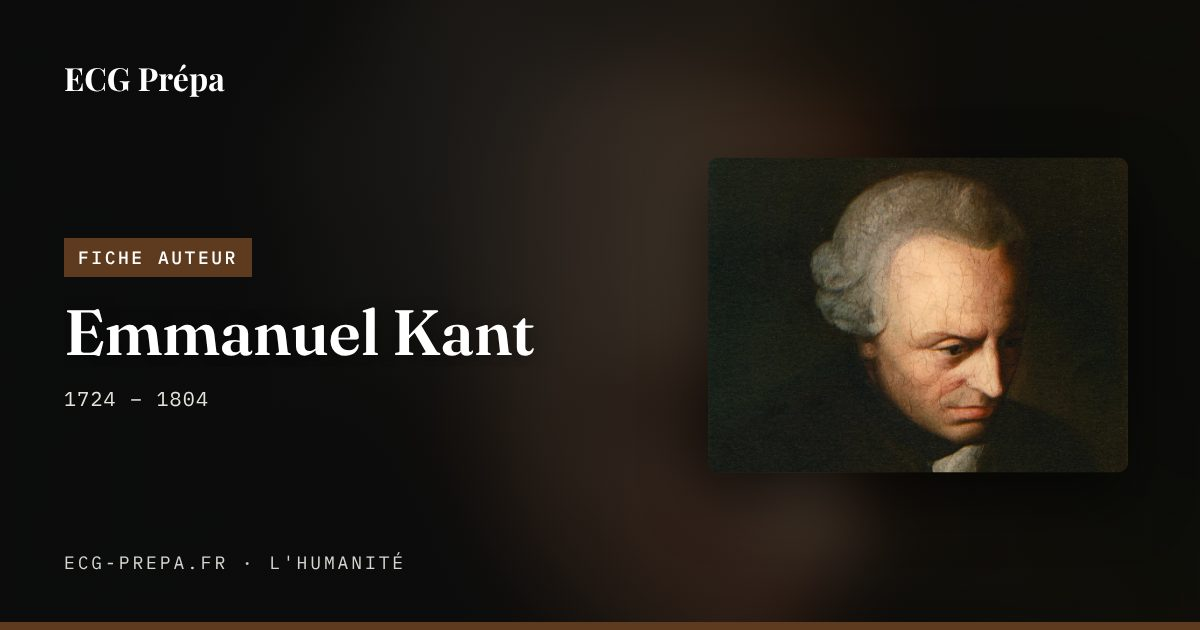
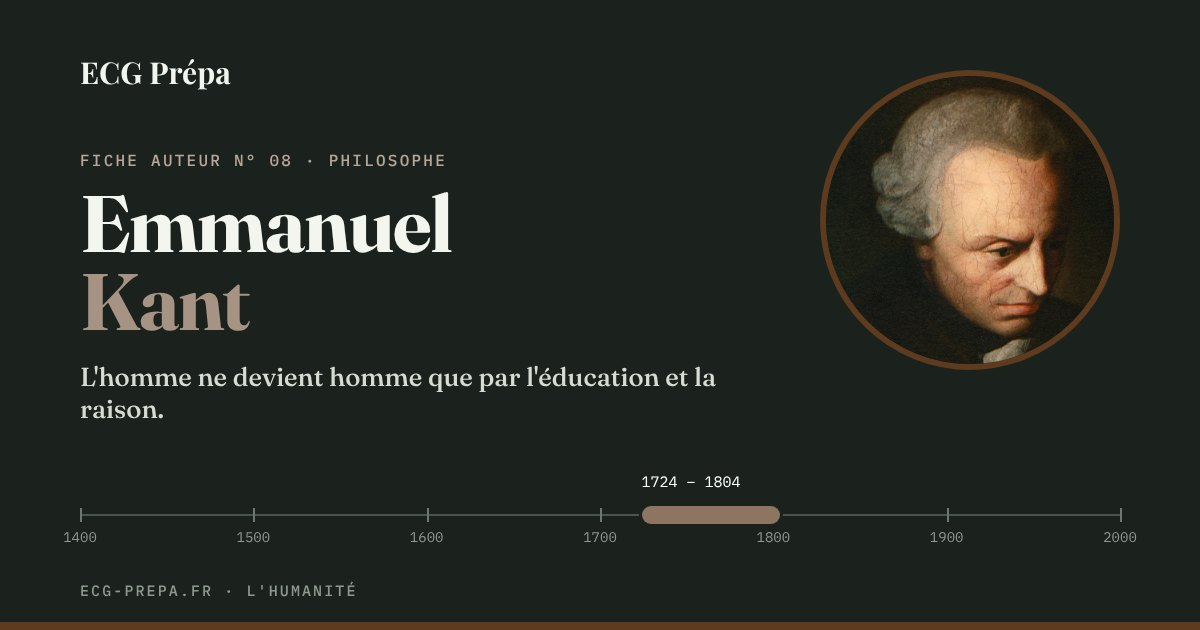
Images de partage des fiches auteurs : maquette « Frise des siècles »
Nouveau modèle GABARIT_FRISE dans outils/images-partage.py (portrait rond,
nom, début de la thèse, vie de l'auteur sur une frise 1400-2000), choisi par
le propriétaire sur maquette. Les 8 fiches refaites avec --refaire.

Claude-Session: https://claude.ai/code/session_01862hVtU2Ugip5E1nS28H1S

diff --git a/humanite/cours-humanite/Fiches auteurs/rousseau.html b/humanite/cours-humanite/Fiches auteurs/rousseau.html
@@ -10,12 +10,12 @@
 <link rel="stylesheet" href="fiche-auteur.css">
 <meta property="og:type" content="article">
 <meta property="og:title" content="Jean-Jacques Rousseau · Fiches auteurs">
-<meta property="og:image" content="https://ecg-prepa.fr/partage/humanite/humanite-cours-humanite-Fiches auteurs-rousseau.jpg?v=202610202043">
+<meta property="og:image" content="https://ecg-prepa.fr/partage/humanite/humanite-cours-humanite-Fiches auteurs-rousseau.jpg?v=202611101411">
 <meta property="og:image:width" content="1200">
 <meta property="og:image:height" content="630">
 <meta property="og:image:alt" content="Jean-Jacques Rousseau · Fiches auteurs">
 <meta name="twitter:card" content="summary_large_image">
-<meta name="twitter:image" content="https://ecg-prepa.fr/partage/humanite/humanite-cours-humanite-Fiches auteurs-rousseau.jpg?v=202610202043">
+<meta name="twitter:image" content="https://ecg-prepa.fr/partage/humanite/humanite-cours-humanite-Fiches auteurs-rousseau.jpg?v=202611101411">
 <link rel="canonical" href="https://ecg-prepa.fr/humanite/cours-humanite/Fiches auteurs/rousseau.html">
 <link rel="stylesheet" href="../../../barre-section.css">
 </head>

diff --git a/humanite/cours-humanite/Fiches auteurs/pic-de-la-mirandole.html b/humanite/cours-humanite/Fiches auteurs/pic-de-la-mirandole.html
@@ -10,12 +10,12 @@
 <link rel="stylesheet" href="fiche-auteur.css">
 <meta property="og:type" content="article">
 <meta property="og:title" content="Pic de la Mirandole">
-<meta property="og:image" content="https://ecg-prepa.fr/partage/humanite/humanite-cours-humanite-Fiches auteurs-pic-de-la-mirandole.jpg">
+<meta property="og:image" content="https://ecg-prepa.fr/partage/humanite/humanite-cours-humanite-Fiches auteurs-pic-de-la-mirandole.jpg?v=202611101411">
 <meta property="og:image:width" content="1200">
 <meta property="og:image:height" content="630">
 <meta property="og:image:alt" content="Pic de la Mirandole">
 <meta name="twitter:card" content="summary_large_image">
-<meta name="twitter:image" content="https://ecg-prepa.fr/partage/humanite/humanite-cours-humanite-Fiches auteurs-pic-de-la-mirandole.jpg">
+<meta name="twitter:image" content="https://ecg-prepa.fr/partage/humanite/humanite-cours-humanite-Fiches auteurs-pic-de-la-mirandole.jpg?v=202611101411">
 <link rel="canonical" href="https://ecg-prepa.fr/humanite/cours-humanite/Fiches auteurs/pic-de-la-mirandole.html">
 <link rel="stylesheet" href="../../../barre-section.css">
 </head>

diff --git a/humanite/cours-humanite/Fiches auteurs/hobbes.html b/humanite/cours-humanite/Fiches auteurs/hobbes.html
@@ -10,12 +10,12 @@
 <link rel="stylesheet" href="fiche-auteur.css">
 <meta property="og:type" content="article">
 <meta property="og:title" content="Thomas Hobbes · Fiches auteurs">
-<meta property="og:image" content="https://ecg-prepa.fr/partage/humanite/humanite-cours-humanite-Fiches auteurs-hobbes.jpg?v=202610202043">
+<meta property="og:image" content="https://ecg-prepa.fr/partage/humanite/humanite-cours-humanite-Fiches auteurs-hobbes.jpg?v=202611101411">
 <meta property="og:image:width" content="1200">
 <meta property="og:image:height" content="630">
 <meta property="og:image:alt" content="Thomas Hobbes · Fiches auteurs">
 <meta name="twitter:card" content="summary_large_image">
-<meta name="twitter:image" content="https://ecg-prepa.fr/partage/humanite/humanite-cours-humanite-Fiches auteurs-hobbes.jpg?v=202610202043">
+<meta name="twitter:image" content="https://ecg-prepa.fr/partage/humanite/humanite-cours-humanite-Fiches auteurs-hobbes.jpg?v=202611101411">
 <link rel="canonical" href="https://ecg-prepa.fr/humanite/cours-humanite/Fiches auteurs/hobbes.html">
 <link rel="stylesheet" href="../../../barre-section.css">
 </head>

diff --git a/humanite/cours-humanite/Fiches auteurs/kant.html b/humanite/cours-humanite/Fiches auteurs/kant.html
@@ -11,12 +11,12 @@
 <link rel="stylesheet" href="../../../barre-section.css">
 <meta property="og:type" content="article">
 <meta property="og:title" content="Kant · Fiches auteurs">
-<meta property="og:image" content="https://ecg-prepa.fr/partage/humanite/humanite-cours-humanite-Fiches auteurs-kant.jpg?v=202611101319">
+<meta property="og:image" content="https://ecg-prepa.fr/partage/humanite/humanite-cours-humanite-Fiches auteurs-kant.jpg?v=202611101411">
 <meta property="og:image:width" content="1200">
 <meta property="og:image:height" content="630">
 <meta property="og:image:alt" content="Kant · Fiches auteurs">
 <meta name="twitter:card" content="summary_large_image">
-<meta name="twitter:image" content="https://ecg-prepa.fr/partage/humanite/humanite-cours-humanite-Fiches auteurs-kant.jpg?v=202611101319">
+<meta name="twitter:image" content="https://ecg-prepa.fr/partage/humanite/humanite-cours-humanite-Fiches auteurs-kant.jpg?v=202611101411">
 <link rel="canonical" href="https://ecg-prepa.fr/humanite/cours-humanite/Fiches auteurs/kant.html">
 </head>
 <body data-type="Philosophe" style="--accent:#5e3a1e;--accent2:#b0336b">

diff --git a/humanite/cours-humanite/Fiches auteurs/la-boetie.html b/humanite/cours-humanite/Fiches auteurs/la-boetie.html
@@ -10,12 +10,12 @@
 <link rel="stylesheet" href="fiche-auteur.css">
 <meta property="og:type" content="article">
 <meta property="og:title" content="Étienne de La Boétie">
-<meta property="og:image" content="https://ecg-prepa.fr/partage/humanite/humanite-cours-humanite-Fiches auteurs-la-boetie.jpg?v=202610292108">
+<meta property="og:image" content="https://ecg-prepa.fr/partage/humanite/humanite-cours-humanite-Fiches auteurs-la-boetie.jpg?v=202611101411">
 <meta property="og:image:width" content="1200">
 <meta property="og:image:height" content="630">
 <meta property="og:image:alt" content="Étienne de La Boétie">
 <meta name="twitter:card" content="summary_large_image">
-<meta name="twitter:image" content="https://ecg-prepa.fr/partage/humanite/humanite-cours-humanite-Fiches auteurs-la-boetie.jpg?v=202610292108">
+<meta name="twitter:image" content="https://ecg-prepa.fr/partage/humanite/humanite-cours-humanite-Fiches auteurs-la-boetie.jpg?v=202611101411">
 <link rel="canonical" href="https://ecg-prepa.fr/humanite/cours-humanite/Fiches auteurs/la-boetie.html">
 <link rel="stylesheet" href="../../../barre-section.css">
 </head>

diff --git a/humanite/cours-humanite/Fiches auteurs/sartre.html b/humanite/cours-humanite/Fiches auteurs/sartre.html
@@ -11,12 +11,12 @@
 <link rel="stylesheet" href="../../../barre-section.css">
 <meta property="og:type" content="article">
 <meta property="og:title" content="Jean-Paul Sartre">
-<meta property="og:image" content="https://ecg-prepa.fr/partage/humanite/humanite-cours-humanite-Fiches auteurs-sartre.jpg">
+<meta property="og:image" content="https://ecg-prepa.fr/partage/humanite/humanite-cours-humanite-Fiches auteurs-sartre.jpg?v=202611101411">
 <meta property="og:image:width" content="1200">
 <meta property="og:image:height" content="630">
 <meta property="og:image:alt" content="Jean-Paul Sartre">
 <meta name="twitter:card" content="summary_large_image">
-<meta name="twitter:image" content="https://ecg-prepa.fr/partage/humanite/humanite-cours-humanite-Fiches auteurs-sartre.jpg">
+<meta name="twitter:image" content="https://ecg-prepa.fr/partage/humanite/humanite-cours-humanite-Fiches auteurs-sartre.jpg?v=202611101411">
 <link rel="canonical" href="https://ecg-prepa.fr/humanite/cours-humanite/Fiches auteurs/sartre.html">
 </head>
 <body data-type="Philosophe" style="--accent:#b4471a;--accent2:#363b47">

diff --git a/humanite/cours-humanite/Fiches auteurs/montaigne.html b/humanite/cours-humanite/Fiches auteurs/montaigne.html
@@ -10,12 +10,12 @@
 <link rel="stylesheet" href="fiche-auteur.css">
 <meta property="og:type" content="article">
 <meta property="og:title" content="Michel de Montaigne">
-<meta property="og:image" content="https://ecg-prepa.fr/partage/humanite/humanite-cours-humanite-Fiches auteurs-montaigne.jpg">
+<meta property="og:image" content="https://ecg-prepa.fr/partage/humanite/humanite-cours-humanite-Fiches auteurs-montaigne.jpg?v=202611101411">
 <meta property="og:image:width" content="1200">
 <meta property="og:image:height" content="630">
 <meta property="og:image:alt" content="Michel de Montaigne">
 <meta name="twitter:card" content="summary_large_image">
-<meta name="twitter:image" content="https://ecg-prepa.fr/partage/humanite/humanite-cours-humanite-Fiches auteurs-montaigne.jpg">
+<meta name="twitter:image" content="https://ecg-prepa.fr/partage/humanite/humanite-cours-humanite-Fiches auteurs-montaigne.jpg?v=202611101411">
 <link rel="canonical" href="https://ecg-prepa.fr/humanite/cours-humanite/Fiches auteurs/montaigne.html">
 <link rel="stylesheet" href="../../../barre-section.css">
 </head>

diff --git a/humanite/cours-humanite/Fiches auteurs/arendt.html b/humanite/cours-humanite/Fiches auteurs/arendt.html
@@ -11,12 +11,12 @@
 <link rel="stylesheet" href="../../../barre-section.css">
 <meta property="og:type" content="article">
 <meta property="og:title" content="Hannah Arendt">
-<meta property="og:image" content="https://ecg-prepa.fr/partage/humanite/humanite-cours-humanite-Fiches auteurs-arendt.jpg">
+<meta property="og:image" content="https://ecg-prepa.fr/partage/humanite/humanite-cours-humanite-Fiches auteurs-arendt.jpg?v=202611101411">
 <meta property="og:image:width" content="1200">
 <meta property="og:image:height" content="630">
 <meta property="og:image:alt" content="Hannah Arendt">
 <meta name="twitter:card" content="summary_large_image">
-<meta name="twitter:image" content="https://ecg-prepa.fr/partage/humanite/humanite-cours-humanite-Fiches auteurs-arendt.jpg">
+<meta name="twitter:image" content="https://ecg-prepa.fr/partage/humanite/humanite-cours-humanite-Fiches auteurs-arendt.jpg?v=202611101411">
 <link rel="canonical" href="https://ecg-prepa.fr/humanite/cours-humanite/Fiches auteurs/arendt.html">
 </head>
 <body data-type="Philosophe" style="--accent:#0d5c75;--accent2:#6b5b95">

diff --git a/outils/images-partage.py b/outils/images-partage.py
@@ -15,7 +15,8 @@ Articles d'actualité au gabarit « a-page » (maquette B) : photo de une en ple
 assombrie à gauche, pastille rouge du pays, titre blanc, filet rouge en bas. Fiches d'œuvres et
 fiches auteurs de l'Humanité avec visuel : visuel flou en fond, visuel net à droite, pastille et filet à la couleur
 de la fiche. Chapitres d'HGG : modèle « dossier d'archives » (chemise kraft, photo du héros scotchée, fiche de titre
-à grand numéro, tampon), à la couleur du chapitre. Autres pages : aplat de couleur et titre.
+à grand numéro, tampon), à la couleur du chapitre. Fiches auteurs : modèle « Frise des siècles » (portrait rond, nom, début de la thèse, vie de
+l'auteur sur une frise de 1400 à 2000). Autres pages : aplat de couleur et titre.
 
 Prérequis : playwright (voir newsletter/outils/installer.sh). Le chemin de Chromium
 peut être donné avec la variable CHROMIUM_PATH.
@@ -294,6 +295,57 @@ def auteur_de(rel, contenu):
     return 'Fiche auteur', chemin, (c.group(1) if c else '#a83a2e'), dates
 
 
+# Fiches auteurs de l'Humanité : maquette D « Frise des siècles », choisie par le propriétaire (novembre 2026).
+# Fond vert nuit, logo, « Fiche auteur n° NN · Philosophe », prénom en blanc et nom à la couleur de la fiche
+# (éclaircie), début de la thèse en une phrase, portrait rond cerclé de la couleur, et en bas une frise de
+# 1400 à 2000 où la vie de l'auteur est une barre (comme l'index fiches-auteurs.html). Filet à la couleur.
+GABARIT_FRISE = """<!doctype html><html lang="fr"><head><meta charset="utf-8">
+<link rel="stylesheet" href="file://%(racine)sfonts/fonts.css">
+<style>
+*{margin:0;padding:0;box-sizing:border-box}
+body{width:1200px;height:630px;overflow:hidden;position:relative;background:#1b221d;color:#f3f5ef;-webkit-font-smoothing:antialiased}
+.mono{font-family:'IBM Plex Mono',monospace;font-weight:500;letter-spacing:.14em;text-transform:uppercase}
+#g{position:absolute;left:80px;top:52px;width:700px}
+#logo{font-family:'Playfair Display',serif;font-weight:700;font-size:30px}
+#k{font-size:16px;color:color-mix(in srgb,var(--c) 45%%,#fff);margin-top:58px}
+h1{font-family:'Fraunces',serif;font-weight:700;font-size:80px;line-height:.98;letter-spacing:-.02em;margin-top:14px}
+h1 span{display:block;color:color-mix(in srgb,var(--c) 55%%,#fff)}
+#th{font-family:'Fraunces',serif;font-weight:500;font-size:26px;line-height:1.25;margin-top:20px;color:#d7dcd3}
+#por{position:absolute;right:80px;top:70px;width:300px;height:300px;border-radius:50%%;object-fit:cover;border:6px solid var(--c)}
+#frise{position:absolute;left:0;right:0;bottom:84px;height:60px}
+#frise .axe{position:absolute;left:80px;right:80px;top:28px;height:2px;background:#4a554d}
+#frise i{position:absolute;top:22px;width:2px;height:14px;background:#6d786f}
+#frise em{position:absolute;top:42px;transform:translateX(-50%%);font-style:normal;font-family:'IBM Plex Mono',monospace;font-size:14px;color:#8e998f}
+#vie{position:absolute;top:20px;height:18px;min-width:18px;border-radius:9px;background:color-mix(in srgb,var(--c) 70%%,#fff);box-shadow:0 0 0 3px #1b221d}
+#lab{position:absolute;top:-14px;font-family:'IBM Plex Mono',monospace;font-size:15px;color:#fff;white-space:nowrap}
+#url{position:absolute;left:80px;bottom:30px;font-size:15px;color:#8e998f}
+#filet{position:absolute;left:0;right:0;bottom:0;height:8px;background:var(--c)}
+</style></head><body>
+<div id="g"><div id="logo">ECG Prépa</div><div id="k" class="mono"></div><h1 id="nom"></h1><p id="th"></p></div>
+<img id="por" alt="">
+<div id="frise"><div class="axe"></div><div id="ticks"></div><div id="vie"></div><div id="lab"></div></div>
+<div id="url" class="mono">ecg-prepa.fr · L'Humanité</div>
+<div id="filet"></div></body></html>"""
+
+
+def frise_de(rel, contenu):
+    """Fiche auteur au gabarit 2026 : données de la maquette « Frise des siècles », sinon None."""
+    a = auteur_de(rel, contenu)
+    h1 = re.search(r'<h1[^>]*>(.*?)<span>(.*?)</span>\s*</h1>', contenu, re.S)
+    ans = [re.search(r'\b(\d{3,4})\b', html.unescape(re.sub(r'<[^>]+>', '', x))) for x in
+           re.findall(r'<dt>(?:Naissance|Mort)</dt><dd>(.*?)</dd>', contenu)]
+    if not a or not h1 or len(ans) < 2 or not all(ans):
+        return None
+    txt = lambda x: html.unescape(re.sub(r'<[^>]+>', '', x)).strip()
+    num = re.search(r'Fiche auteur n°(?:&nbsp;|\s)*(\d+)', contenu)
+    typ = re.search(r'<body[^>]*data-type="([^"]+)"', contenu)
+    these = re.search(r'<div class="these">.*?<p>(.*?)</p>', contenu, re.S)
+    th = re.split(r'\s*:\s', txt(these.group(1)).replace('\u00a0', ' '), maxsplit=1)[0].rstrip('. ') + '.' if these else ''
+    kick = 'Fiche auteur' + (' n°\u00a0' + num.group(1) if num else '') + (' · ' + typ.group(1) if typ else '')
+    return dict(img=a[1], couleur=a[2], prenom=txt(h1.group(1)), nom=txt(h1.group(2)), kick=kick,
+                these=insecables(th), nait=int(ans[0].group(1)), mort=int(ans[1].group(1)))
+
+
 def insecables(t):
     """Typographie française : espace insécable avant « : ; ! ? » », après « et n°."""
     t = re.sub(r' ([:;!?»])', '\u00a0\\1', t)
@@ -407,6 +459,8 @@ def main():
     gab_plein.write(GABARIT_PLEIN % {'racine': RACINE}); gab_plein.close()
     gab_archive = tempfile.NamedTemporaryFile('w', suffix='.html', delete=False, encoding='utf-8')
     gab_archive.write(GABARIT_ARCHIVE % {'racine': RACINE}); gab_archive.close()
+    gab_frise = tempfile.NamedTemporaryFile('w', suffix='.html', delete=False, encoding='utf-8')
+    gab_frise.write(GABARIT_FRISE % {'racine': RACINE}); gab_frise.close()
     with sync_playwright() as pw:
         chemin = os.environ.get('CHROMIUM_PATH') or ('/opt/pw-browsers/chromium' if os.path.exists('/opt/pw-browsers/chromium') else None)
         nav = pw.chromium.launch(executable_path=chemin) if chemin else pw.chromium.launch()
@@ -425,6 +479,9 @@ def main():
         page_archive = nav.new_page(viewport={'width': 1200, 'height': 630})
         page_archive.goto('file://' + gab_archive.name)
         page_archive.evaluate('document.fonts.ready')
+        page_frise = nav.new_page(viewport={'width': 1200, 'height': 630})
+        page_frise.goto('file://' + gab_frise.name)
+        page_frise.evaluate('document.fonts.ready')
         for rel, contenu, (cle, lab, titre, fond, fg, accent, logo) in travail:
             sortie = 'partage/' + cle + '.jpg'
             os.makedirs(os.path.dirname(RACINE + sortie), exist_ok=True)
@@ -435,7 +492,31 @@ def main():
             plein = plein_de(rel, contenu, cours)
             if plein:
                 cours = None
-            if archive:
+            frise = frise_de(rel, contenu)
+            if frise:
+                h1 = re.search(r'<h1[^>]*>(.*?)</h1>', contenu, re.S)
+                titre = html.unescape(re.sub(r'<[^>]+>', '', h1.group(1))).strip()
+                page_frise.evaluate("""(d) => new Promise(ok => {
+                  document.body.style.setProperty('--c', d.couleur);
+                  document.getElementById('k').textContent = d.kick;
+                  const h = document.getElementById('nom'); h.textContent = d.prenom + ' ';
+                  const s = document.createElement('span'); s.textContent = d.nom; h.appendChild(s);
+                  const th = document.getElementById('th'); th.textContent = d.these;
+                  const X = a => 80 + (a - 1400) / 600 * 1040;
+                  document.getElementById('ticks').innerHTML = [1400, 1500, 1600, 1700, 1800, 1900, 2000].map(a =>
+                    '<i style="left:' + X(a) + 'px"></i><em style="left:' + X(a) + 'px">' + a + '</em>').join('');
+                  const v = document.getElementById('vie'); v.style.left = X(d.nait) + 'px'; v.style.width = (X(d.mort) - X(d.nait)) + 'px';
+                  const l = document.getElementById('lab'); l.textContent = d.nait + ' – ' + d.mort; l.style.left = X(d.nait) + 'px';
+                  const i = document.getElementById('por');
+                  i.onload = i.onerror = () => document.fonts.ready.then(() => {
+                    let t = 80; h.style.fontSize = t + 'px';
+                    while (t > 52 && (h.scrollWidth > h.clientWidth || h.offsetHeight > t * .98 * 2 + 4)) { t -= 2; h.style.fontSize = t + 'px'; }
+                    let u = 26; th.style.fontSize = u + 'px';
+                    while (u > 18 && th.offsetHeight > u * 1.25 * 2 + 4) { u -= 1; th.style.fontSize = u + 'px'; }
+                    ok(); });
+                  i.src = d.img; })""", dict(frise, img='file://' + frise['img']))
+                page_frise.screenshot(path=RACINE + sortie, type='jpeg', quality=86)
+            elif archive:
                 annee, num, img, couleur = archive
                 titre = insecables(re.sub(r'^(?:HGG\s*)?Chapitre\s*\d+\s*[:—–-]\s*', '', titre))
                 n = len(titre)
@@ -553,6 +634,7 @@ def main():
     os.unlink(gab_photo.name)
     os.unlink(gab_visuel.name)
     os.unlink(gab_archive.name)
+    os.unlink(gab_frise.name)
     print('%d image(s) de partage créée(s) dans partage/.' % len(travail))
 
 

diff --git a/CLAUDE.md b/CLAUDE.md
@@ -75,8 +75,12 @@ directement après chaque modification, sans attendre un nouveau « mets en lign
    en bas et filet ; pastille et filet à la couleur d'accent de l'article (`--accent`). Les fiches d'œuvres de
    l'Humanité qui ont un visuel (`ch-hero-visuel` : affiche, couverture, œuvre, pochette) suivent le même esprit :
    visuel flou et assombri en fond, visuel net à droite, pastille de la rubrique, titre, « auteur · année » (`.meta`),
-   « ecg-prepa.fr · L'Humanité », pastille et filet à la couleur de la fiche (`--c`). Les fiches auteurs aussi (portrait
-   `f-portrait`, pastille « Fiche auteur », nom du `<h1>`, années de naissance et de mort, couleur `--accent`). Et les cours d'Humanité (image du héros
+   « ecg-prepa.fr · L'Humanité », pastille et filet à la couleur de la fiche (`--c`). **Fiches auteurs** : modèle propre, la
+   **maquette D « Frise des siècles »** choisie par le propriétaire (novembre 2026, `GABARIT_FRISE`) : fond vert nuit, logo,
+   « Fiche auteur n° NN · Philosophe », prénom en blanc et nom du `<h1>` (`<span>`) à la couleur de la fiche, début de « Sa thèse
+   en une phrase » (avant le deux-points), portrait de `.idc` en rond cerclé de `--accent`, frise de 1400 à 2000 où la vie de
+   l'auteur (naissance et mort de la fiche d'identité) est une barre, filet à la couleur ; après la refonte d'une fiche, lancer
+   `--refaire` sur sa page. Et les cours d'Humanité (image du héros
    `ch-hero-media` recadrée, pastille « Cours N », titre, « L'Humanité · 2e année »). Les pages de cours de 1re et 2e année aussi (pastille de la
    matière ou de la langue, titre, « Chapitre N · 1re année », couleur fixe par matière dans `COULEURS` du script) :
    image du héros si elle est stockée sur le site, sinon la vignette `.ci-vig` de l'index de la matière (ou de l'autre
